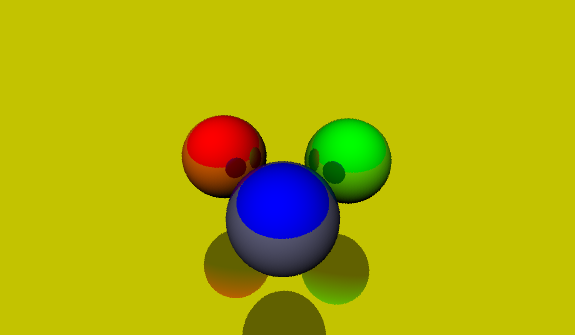
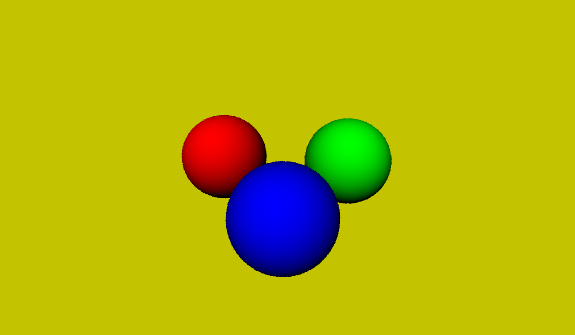
修改追踪器配置

diff --git a/src/core/Scene.py b/src/core/Scene.py
@@ -8,20 +8,14 @@ from Color import Color
 from Camera import *
 from Light import *
 
-current_progress = -1
-
 def log_progress(progress):
 	pgs = int(progress*100)
-	if pgs == current_progress:
-		return
-	current_progress = pgs
-	print('当前渲染进度：%d%%'%(current_progress)) 
+	print('当前渲染进度：%d%%'%(pgs)) 
 
 class Scene:
 	def __init__(self):
 		self.color = Color(1,0,0)
 		self.lights = []
-		self.tracer = SimpleTracer(1)
 
 	def init_scene(self, scenePath):
 		if os.path.exists(scenePath) == False:
@@ -30,6 +24,7 @@ class Scene:
 			file = open(scenePath)
 			scenejson = json.load(file)
 			file.close()
+			self.tracer = create_tracer(scenejson["Tracer"])
 			for g in scenejson["Gemoetries"]:
 				self.tracer.push_obj(create_from_scene_file(g["type"],g["params"]))
 			for l in scenejson["Lights"]:

diff --git a/src/core/Tracer.py b/src/core/Tracer.py
@@ -74,5 +74,7 @@ class SimpleTracer(Tracer):
 		return result
 
 
+def create_tracer(params):
+	return SimpleTracer(params["max_trace"])
 
 
